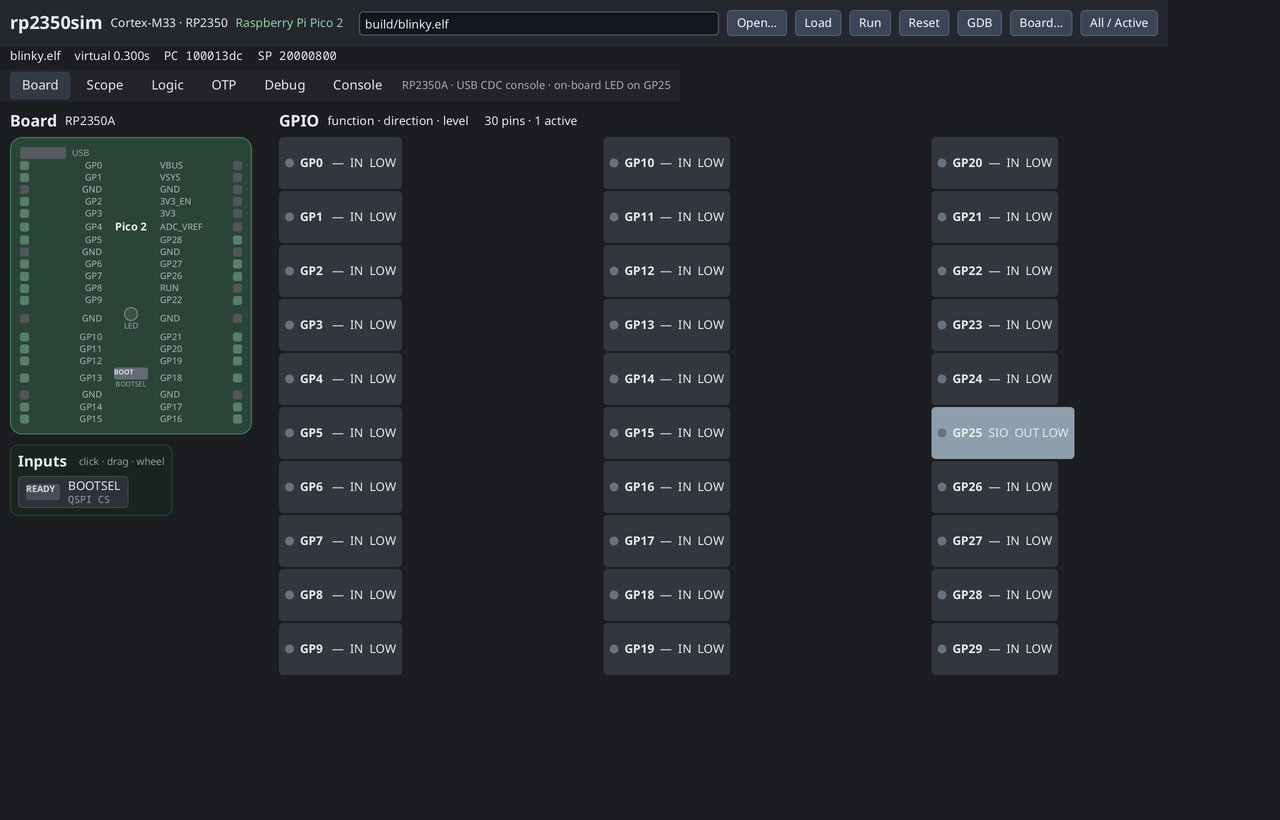
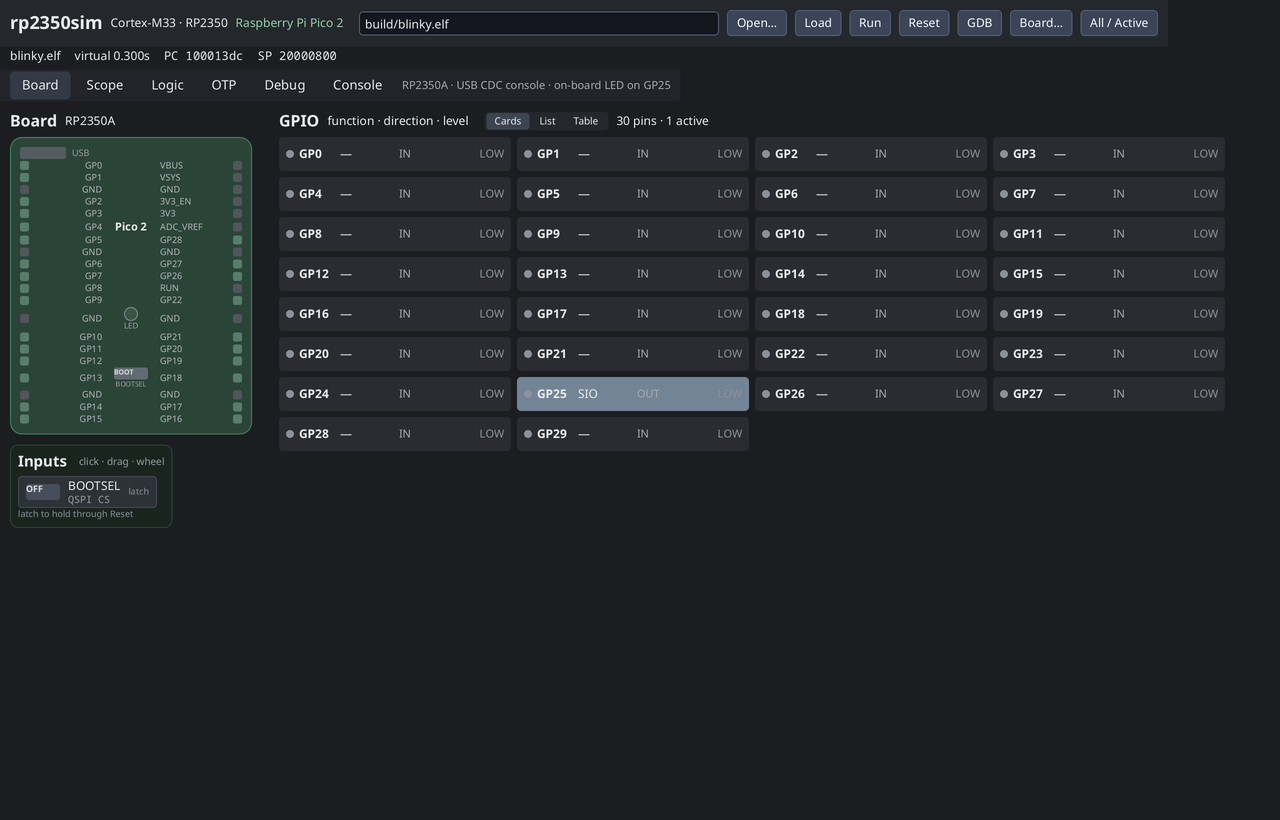
ui: add selectable uniform GPIO layouts
The old GPIO panel sized each column from its text, so "SIO OUT HIGH" made
columns different widths. The header now offers Cards, List and Table:

- Cards (default) is a manually computed grid of fixed 232 px cards whose
  PIN/FUNCTION/DIR/LEVEL fields align; the column count follows the window.
- List is a two-column list with headings and 15 generous rows per column.
- Table is a denser three-column table with headings.

All three fill right-aligned levels and share the same state colours.
`--gpio-layout` sets the startup view; the header switch changes it live.
The Board and inputs screenshots are regenerated with Cards.

diff --git a/cmd/simui/main.go b/cmd/simui/main.go
@@ -34,6 +34,7 @@ var (
 	selectedBoard      *BoardDef
 	pendingBoardPicker bool
 	inputArgs          []string
+	gpioLayout         = "cards"
 	activeTab          = tabBoard
 	scopePins          []int
 	scopeZoom          = 1.0
@@ -1007,35 +1008,206 @@ func pinsPanel(snap MachineState) {
 	if n <= 0 {
 		n = 30
 	}
-	cols := 3
-	if n > 30 {
-		cols = 4
-	}
-	rows := (n + cols - 1) / cols
 	Container(Attrs(Grow(1), Expand, Gap(6)), func() {
 		Container(Attrs(Row, CrossMid, Gap(8)), func() {
 			Label("GPIO", FontSize(16), FontWeight(700))
 			Label("function · direction · level", FontSize(12))
 			Filler(1)
+			gpioLayoutPicker()
 			Label(fmt.Sprintf("%d pins · %d active", n, countActive(snap)), FontSize(12))
 		})
-		Container(Attrs(Row, Grow(1), Expand, Gap(6)), func() {
-			for col := range cols {
-				Container(Attrs(Gap(2), Grow(1), Expand), func() {
-					for row := range rows {
-						p := col*rows + row
-						if p >= n {
-							break
-						}
-						in := snap.Pins[p]
-						if pinView == 1 && !pinActive(in) {
-							continue
-						}
-						pinCard(p, in)
+		switch gpioLayout {
+		case "list":
+			pinsListBody(snap, n)
+		case "table":
+			pinsTableBody(snap, n)
+		default:
+			pinsCardsBody(snap, n)
+		}
+	})
+}
+
+// gpioLayoutPicker switches the GPIO panel between the three presentations.
+func gpioLayoutPicker() {
+	layouts := [][2]string{{"cards", "Cards"}, {"list", "List"}, {"table", "Table"}}
+	Container(Attrs(Row, CrossMid, Gap(2), Pad2(1, 2), Corners(4), Background(220, 10, 16, 1)), func() {
+		for _, l := range layouts {
+			key, label := l[0], l[1]
+			Container(Attrs(Row, CrossMid, Pad2(2, 8), Corners(3)), func() {
+				st := ProcessButtonEvents(false)
+				if st.Clicked {
+					gpioLayout = key
+					RequestNextFrame()
+				}
+				switch {
+				case gpioLayout == key:
+					ModAttrs(Background(220, 14, 28, 1))
+				case st.Hovered:
+					ModAttrs(Background(220, 12, 21, 1))
+				}
+				Label(label, FontSize(10), FontWeight(600))
+			})
+		}
+	})
+}
+
+// pinCardHSLA is the card/row background for a pin's electrical state.
+func pinCardHSLA(in PinInfo) (h, s, l float32) {
+	switch {
+	case in.OE && in.Level:
+		return 140, 70, 45
+	case in.OE:
+		return 210, 15, 52
+	case in.Level:
+		return 205, 45, 42
+	}
+	return 220, 8, 18
+}
+
+// pinLevelHSLA is the text/dot colour for the level.
+func pinLevelHSLA(in PinInfo) (h, s, l float32) {
+	if in.Level {
+		return 140, 65, 68
+	}
+	return 215, 6, 58
+}
+
+func pinDirLabel(in PinInfo) string {
+	if in.OE {
+		return "OUT"
+	}
+	return "IN"
+}
+
+// pinsCardsBody lays out uniform fixed-width cards. The column count is
+// derived from the available width, and every card has the same width, so the
+// function/level text can never change the alignment.
+func pinsCardsBody(snap MachineState, n int) {
+	const cardW, gap = 232, 6
+	w := GetContentWidth()
+	if w < 100 {
+		w = float32(viewW) - 289
+	}
+	cols := int((w + gap) / (cardW + gap))
+	cols = min(max(cols, 2), 6)
+	rows := (n + cols - 1) / cols
+	Container(Attrs(Gap(6), Expand), func() {
+		for row := range rows {
+			Container(Attrs(Row, Gap(gap)), func() {
+				for col := range cols {
+					p := row*cols + col
+					if p >= n {
+						break
 					}
-				})
-			}
+					in := snap.Pins[p]
+					if pinView == 1 && !pinActive(in) {
+						continue
+					}
+					pinCardUniform(p, in)
+				}
+			})
+		}
+	})
+}
+
+func pinCardUniform(p int, in PinInfo) {
+	h, s, l := pinCardHSLA(in)
+	dh, ds, dl := pinLevelHSLA(in)
+	ContainerWithKey(p, Attrs(Row, CrossMid, FixWidth(232), FixHeight(34), Gap(5),
+		Pad2(2, 7), Corners(4), Background(h, s, l, 1)), func() {
+		Container(Attrs(FixSize(8, 8), Corners(4), Background(dh, ds, dl, 1)), func() {})
+		Container(Attrs(FixWidth(36)), func() {
+			Label(fmt.Sprintf("GP%-2d", p), FontSize(12), FontWeight(700))
 		})
+		Container(Attrs(FixWidth(54)), func() {
+			Label(funcName(in.Func), FontSize(12))
+		})
+		Container(Attrs(FixWidth(26)), func() {
+			Label(pinDirLabel(in), FontSize(11), TextColor(220, 6, 68, 1))
+		})
+		Filler(1)
+		Label(levelName(in.Level), FontSize(11), FontWeight(600), TextColor(dh, ds, dl, 1))
+	})
+}
+
+// pinsListBody is a two-column list with generous rows and column headings.
+func pinsListBody(snap MachineState, n int) {
+	pinsBodyColumns(snap, n, 2, 26, 12, 42, 70, 32)
+}
+
+// pinsTableBody is a denser three-column table with column headings.
+func pinsTableBody(snap MachineState, n int) {
+	pinsBodyColumns(snap, n, 3, 21, 11, 34, 48, 26)
+}
+
+func pinsBodyColumns(snap MachineState, n, cols int, rowH, fontSize, pinW, fnW, dirW float32) {
+	if n > 30 && cols < 3 {
+		cols = 3
+	}
+	rows := (n + cols - 1) / cols
+	Container(Attrs(Row, Grow(1), Expand, Gap(16)), func() {
+		for col := range cols {
+			Container(Attrs(Grow(1), Gap(0)), func() {
+				pinListHeader(pinW, fnW, dirW, fontSize)
+				for row := range rows {
+					p := col*rows + row
+					if p >= n {
+						break
+					}
+					in := snap.Pins[p]
+					if pinView == 1 && !pinActive(in) {
+						continue
+					}
+					pinRow(p, in, rowH, fontSize, pinW, fnW, dirW, row%2 == 1)
+				}
+			})
+		}
+	})
+}
+
+func pinListHeader(pinW, fnW, dirW, fontSize float32) {
+	fnTitle := "FUNCTION"
+	if fnW < 60 {
+		fnTitle = "FUNC"
+	}
+	Container(Attrs(Row, CrossMid, FixHeight(18), Gap(6), Pad2(0, 6), Expand,
+		Background(220, 10, 15, 1)), func() {
+		Container(Attrs(FixSize(7, 7)), func() {})
+		Container(Attrs(FixWidth(pinW)), func() {
+			Label("PIN", FontSize(fontSize-1), FontWeight(700), TextColor(220, 6, 60, 1))
+		})
+		Container(Attrs(FixWidth(fnW)), func() {
+			Label(fnTitle, FontSize(fontSize-1), FontWeight(700), TextColor(220, 6, 60, 1))
+		})
+		Container(Attrs(FixWidth(dirW)), func() {
+			Label("DIR", FontSize(fontSize-1), FontWeight(700), TextColor(220, 6, 60, 1))
+		})
+		Filler(1)
+		Label("LEVEL", FontSize(fontSize-1), FontWeight(700), TextColor(220, 6, 60, 1))
+	})
+}
+
+func pinRow(p int, in PinInfo, height, fontSize, pinW, fnW, dirW float32, zebra bool) {
+	h, s, l := pinCardHSLA(in)
+	if zebra && h == 220 && s == 8 && l == 18 {
+		l = 14
+	}
+	dh, ds, dl := pinLevelHSLA(in)
+	ContainerWithKey(p, Attrs(Row, CrossMid, FixHeight(height), Gap(6), Pad2(1, 6), Expand,
+		Background(h, s, l, 1)), func() {
+		Container(Attrs(FixSize(7, 7), Corners(4), Background(dh, ds, dl, 1)), func() {})
+		Container(Attrs(FixWidth(pinW)), func() {
+			Label(fmt.Sprintf("GP%-2d", p), FontSize(fontSize), FontWeight(700))
+		})
+		Container(Attrs(FixWidth(fnW)), func() {
+			Label(funcName(in.Func), FontSize(fontSize))
+		})
+		Container(Attrs(FixWidth(dirW)), func() {
+			Label(pinDirLabel(in), FontSize(fontSize-1), TextColor(220, 6, 68, 1))
+		})
+		Filler(1)
+		Label(levelName(in.Level), FontSize(fontSize-1), FontWeight(600),
+			TextColor(dh, ds, dl, 1))
 	})
 }
 
@@ -1051,32 +1223,6 @@ func countActive(snap MachineState) int {
 		}
 	}
 	return n
-}
-
-func pinCard(p int, in PinInfo) {
-	h, s, l := float32(220), float32(8), float32(22)
-	switch {
-	case in.OE && in.Level:
-		h, s, l = 140, 70, 50
-	case in.OE:
-		h, s, l = 210, 15, 62
-	case in.Level:
-		h, s, l = 205, 45, 55
-	}
-	ContainerWithKey(p, Attrs(Row, CrossMid, FixHeight(52), Gap(6), Pad2(3, 6), Corners(4), Background(h, s, l, 1)), func() {
-		dotH, dotS, dotL := float32(210), float32(10), float32(45)
-		if in.Level {
-			dotH, dotS, dotL = 140, 70, 55
-		}
-		Container(Attrs(FixSize(9, 9), Corners(5), Background(dotH, dotS, dotL, 1)), func() {})
-		Label(fmt.Sprintf("GP%-2d", p), FontSize(12), FontWeight(700))
-		Label(funcName(in.Func), FontSize(12))
-		dir := "IN "
-		if in.OE {
-			dir = "OUT"
-		}
-		Label(fmt.Sprintf("%s %s", dir, levelName(in.Level)), FontSize(12))
-	})
 }
 
 // lcdAspect returns the displayed frame size: the last frame when there is
@@ -2926,6 +3072,7 @@ func main() {
 		inputArgs = append(inputArgs, v)
 		return nil
 	})
+	gpioLayoutFlag := flag.String("gpio-layout", "cards", "GPIO panel layout: cards, list or table")
 	flashPath := flag.String("flash", "", "raw flash backing image; self-updates are written back here")
 	tabName := flag.String("tab", "board", "tab to show: board, lcd, dvi, eth/wifi, ws, sensors, scope, logic, audio, midi, otp, bus, debug, console")
 	debugBreak := flag.String("break", "", "add a debugger breakpoint (address or symbol) after loading")
@@ -2950,6 +3097,17 @@ func main() {
 		debugInspectorTab = 2
 	}
 	viewW, viewH = *winW, *winH
+	switch strings.ToLower(*gpioLayoutFlag) {
+	case "cards", "card", "grid":
+		gpioLayout = "cards"
+	case "list":
+		gpioLayout = "list"
+	case "table":
+		gpioLayout = "table"
+	default:
+		fmt.Fprintf(os.Stderr, "unknown --gpio-layout %q (cards, list or table)\n", *gpioLayoutFlag)
+		os.Exit(2)
+	}
 
 	var err error
 	boards, err = LoadBoards()

diff --git a/docs/ui.md b/docs/ui.md
@@ -38,6 +38,7 @@ Startup flags:
 |---|---|
 | `--board ID` | skip the picker and select a board (see `--list-boards`) |
 | `--input ID=VALUE` | set a board input before the first frame (`on`/`off`, volts, `+N`/`-N`); repeatable |
+| `--gpio-layout CARDS\|LIST\|TABLE` | initial GPIO view (the header switch overrides it live) |
 | `--list-boards` | print board IDs, names and badges, then exit |
 | `--version` | print the version and exit |
 | `--tab NAME` | initial tab: `board`, `lcd`, `dvi`, `eth`/`wifi`, `ws`, `sensors`, `scope`, `logic`, `audio`, `midi`, `otp`, `bus`, `debug`, `console` |
@@ -177,9 +178,13 @@ its headless flags and demo firmware.
 
 ### Board
 
-The Pico 2 header diagram and the live GPIO table (function, direction, level).
-Panels size themselves to the window. Click a GPIO chip in the scope to add it.
-A board with `psram` shows its size and per-access stall in the status line.
+The Pico 2 header diagram and the live GPIO view (function, direction, level).
+The GPIO header has a **Cards | List | Table** switch: Cards uses uniform
+fixed-width cards (the default, four across at 1280px, so a function name can
+never resize a card), List is a two-column list with row headings, and Table is
+a denser three-column table. Panels size themselves to the window. Click a GPIO
+chip in the scope to add it. A board with `psram` shows its size and per-access
+stall in the status line.
 
 ![Board tab](images/board.png)
 

diff --git a/docs/peripherals.md b/docs/peripherals.md
@@ -68,8 +68,9 @@ and the pinned pico-examples PWM test uses the same `pincheck` mechanism for
 frequency and duty cycle. ADC channels are read by firmware normally; on the
 Touch-LCD-2 the battery divider is on GP28/ADC2.
 
-**UI.** The **Board** tab shows the live GPIO table (function, direction,
-level). Click header pins in the **Scope** to add or remove traces:
+**UI.** The **Board** tab shows the live GPIO view (function, direction,
+level) as uniform Cards, a two-column List or a dense Table; the header switch
+changes it live. Click header pins in the **Scope** to add or remove traces:
 GP0–GP15 and GP26–GP29, 1 MHz sampling, up to eight channels. The
 `pico2-analog` board drives a 1 kHz sine on GP26 so the scope and the ADC have
 a known signal.
